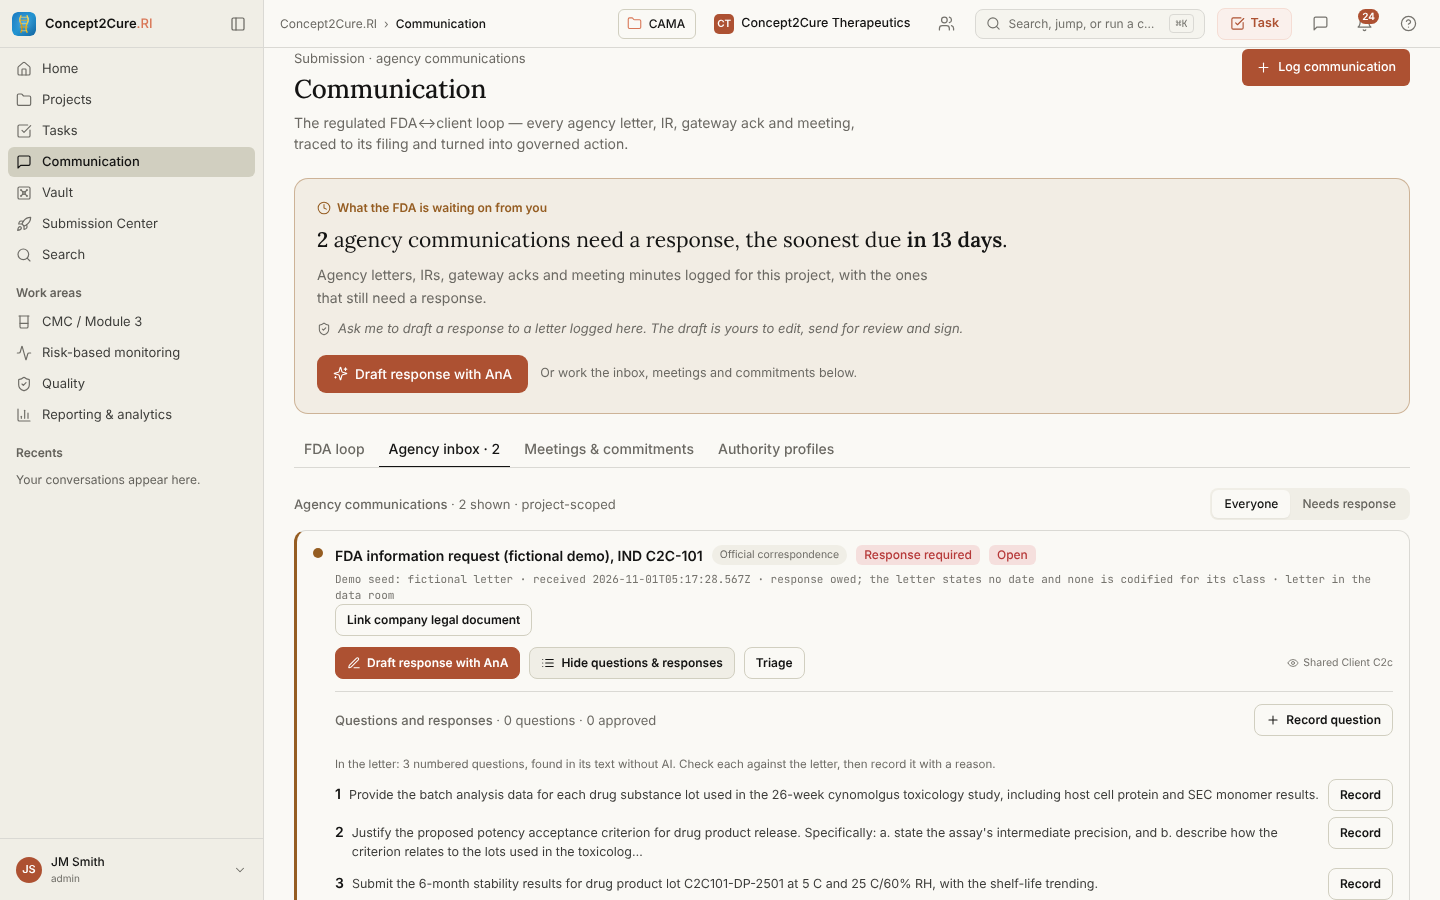
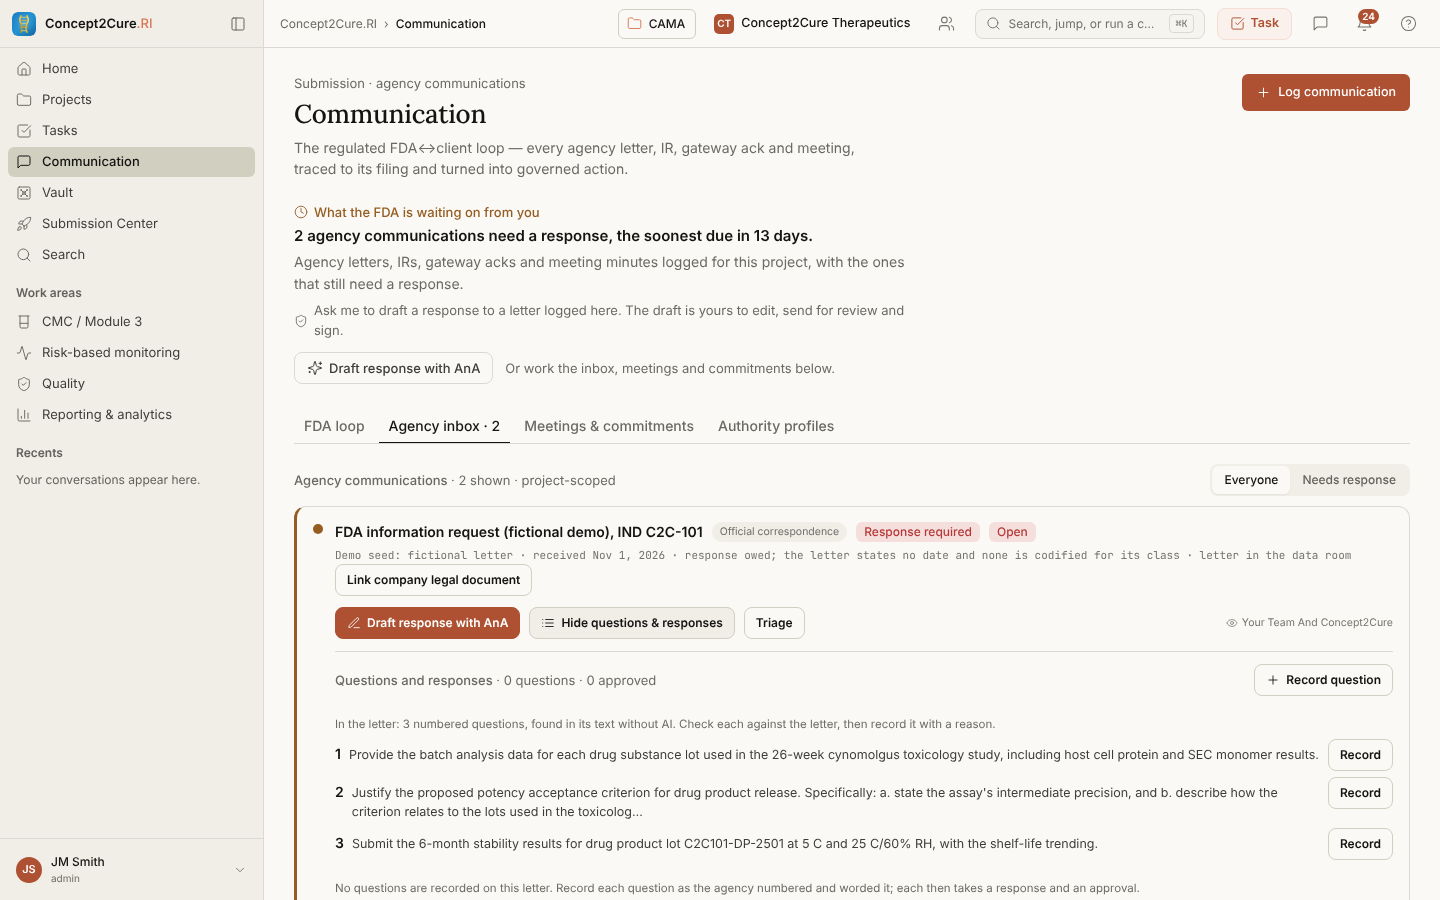
Evidence: the extract-commitments walk's eight defects, each with the commit that fixed it
The demo walk of 2026-11-01 found eight defects. All eight are fixed on
concept2cure-v2. The README now names, for each one, the commit that
fixed it. The narrow re-shoot (walk.cjs --narrow-only, which records
nothing) shows the commitment rows readable at 390 after D0's wrap.

Plan: DATA
Completes: docs/evidence/DEMO/2026-11-01-extract-commitments

Claude-Session: https://claude.ai/code/session_011DpxUyQmE1enma4gTjcfBy
(cherry picked from commit 08ad6da0bf6d478bf9d7129976028ef7ad941781)

diff --git a/docs/evidence/DEMO/2026-11-01-extract-commitments/README.md b/docs/evidence/DEMO/2026-11-01-extract-commitments/README.md
@@ -144,3 +144,20 @@ Line numbers are at HEAD. For the agency files that is ff7fc490b7, their last co
    this change. Its fixture copies only `lib.mjs`, `seed.mjs` and `packs/biotech.mjs` (lines 31–32), and
    `biotech.mjs` imports seven other pack modules (`Cannot find module …/biotech-work-content.mjs`). This change
    adds no import that HEAD's `biotech.mjs` did not already have.
+
+## Resolved (2026-11-01, same day)
+
+Every defect above is fixed on `concept2cure-v2`, each with a test that fails on the old code:
+
+| # | Defect | Fixed in |
+|---|---|---|
+| 1 | Meetings & commitments did not list a commitment recorded from a letter until re-read | `7f0a09a359`: `onCommitmentRecorded` from `AgencyResponses` through the inbox to Communication's register version |
+| 2 | At 390 wide each commitment's text was 0px wide | `3819decf71` (D0): `.cc-q-proposal` wraps, the text keeps a 16ch minimum. Re-shot: `screenshots/09-mobile-390-commitments.png` |
+| 3 | Received date as a raw ISO instant; visibility tier "shared client c2c" | `85591ed4d8`: "received Oct 12, 2026"; "Your team and Concept2Cure" |
+| 4 | Commitment rows "due 2030-06-30", and no word of the letter they came from | `85591ed4d8`: "due Jun 30, 2030 · recorded from Approval letter" |
+| 5 | A letter that asks nothing told to record its questions by hand | `85591ed4d8`: it says it needs no response; the hint is on letters that owe one |
+| 6 | The half-width basis field cut off "PREA (FDCA 505B) · 471…" | `85591ed4d8`: basis on a full row in both forms |
+| 7 | A link opened in a fresh tab: the top bar said "Open project" | `cc17ddb1d4`: the top bar's chip names the project on whichever screen the link opened |
+| 8 | `demo-recovery.test.mjs` failed 35/35 | `93f375639b`: the fixture supplies the pack's work areas; 35/35 pass |
+
+The re-shoot (`walk.cjs --narrow-only`) records nothing; `walk-narrow.json` is its output.
